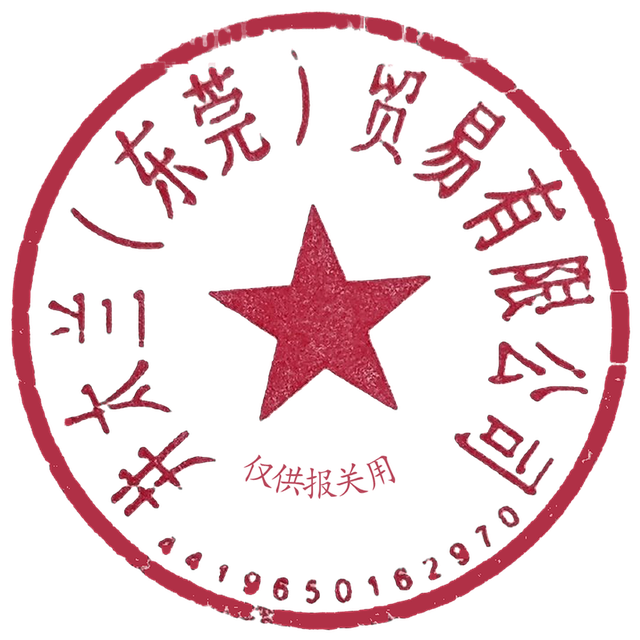
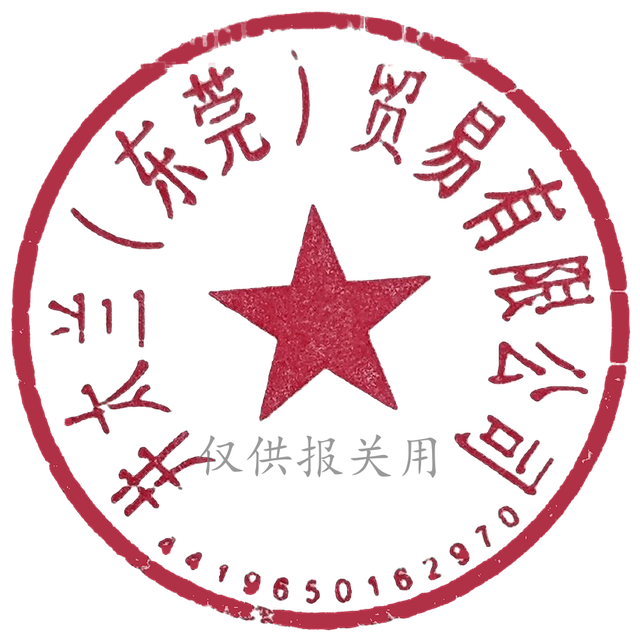
feat: Excel盖章(采购甲方行/发票装箱销售表尾右下, 25mm, oneCellAnchor)+水印改灰色直排样式C(v2)

Changed region(s): [[0.3125, 0.6875, 0.6875, 0.7812]]

diff --git a/index.html b/index.html
@@ -376,6 +376,7 @@ async function purchaseTplDownload(d,suffix){
     await stampPurchaseSheet(ws,wbTpl.getWorksheet('合同'),items,pctx);
   }
   outWb.worksheets.forEach(function(w){ applyA4PageSetup(w,'国内采购合同'); });
+  sealWorkbookAll(outWb);
   var b=await outWb.xlsx.writeBuffer();
   _dl(new Blob([b],{type:'application/vnd.openxmlformats-officedocument.spreadsheetml.sheet'}),(suffix||'国内采购合同')+'.xlsx');
 }
@@ -3781,6 +3782,7 @@ async function composeSetWorkbook(doc,prefix){
     }
     /* A4 打印设置注入(所有 sheet, 屏幕显示不受影响) */
     ej.worksheets.forEach(function(w){ applyA4PageSetup(w, w.name.replace(/^(set\d+_)/,'')); });
+    sealWorkbookAll(ej);
     return {type:'exceljs', wb:ej};
   }
   /* 采购页无模板：xlsContract 并入 SheetJS */
@@ -3851,6 +3853,7 @@ function downloadDocXlsx(docI,idx){
           try{
             const ej=new ExcelJS.Workbook(); await ej.xlsx.load(sjBuf);
             ej.worksheets.forEach(function(w){ applyA4PageSetup(w,o.type); });
+            sealWorkbookAll(ej);
             const b=await ej.xlsx.writeBuffer();
             _dl(new Blob([b],{type:'application/vnd.openxmlformats-officedocument.spreadsheetml.sheet'}),_fx+'.xlsx');
           }catch(e2){ console.warn('A4 注入失败回退 SheetJS',e2); xlsDownload(_fx,wb); }
@@ -3862,12 +3865,36 @@ function downloadDocXlsx(docI,idx){
 /* Word 导出：HTML → .doc(application/msword)，Word/WPS 直接打开；销售合同/国内采购合同用 */
 /* ===== 电子印章(v3.1)：销售合同/Invoice/装箱单 落款盖章，图源 assets/seal_*.png，转dataURI供Word导出 ===== */
 const SEAL={uris:{},on:localStorage.getItem('v3.sealOn')!=='0',wm:localStorage.getItem('v3.sealWm')!=='0'};
-function sealInit(){['clean','decl'].forEach(function(k){fetch('assets/seal_'+k+'.png?v=1').then(function(r){return r.ok?r.blob():Promise.reject();}).then(function(bl){var fr=new FileReader();fr.onload=function(){SEAL.uris[k]=fr.result;};fr.readAsDataURL(bl);}).catch(function(){});});}
+function sealInit(){['clean','decl'].forEach(function(k){fetch('assets/seal_'+k+'.png?v='+(k==='decl'?'2':'1')).then(function(r){return r.ok?r.blob():Promise.reject();}).then(function(bl){var fr=new FileReader();fr.onload=function(){SEAL.uris[k]=fr.result;};fr.readAsDataURL(bl);}).catch(function(){});});}
 function sealImgHtml(){if(!SEAL.on)return '';var u=SEAL.uris[SEAL.wm?'decl':'clean'];if(!u)return '';
   return '<img src="'+u+'" style="width:25mm;height:25mm;vertical-align:middle;opacity:.94">';}
 function sealSet(k,v){if(k==='on'){SEAL.on=v;localStorage.setItem('v3.sealOn',v?'1':'0');}else{SEAL.wm=v;localStorage.setItem('v3.sealWm',v?'1':'0');}}
 function sealBlockHtml(){if(!SEAL.on)return '';var u=SEAL.uris[SEAL.wm?'decl':'clean'];if(!u)return '';
   return '<div style="text-align:right;margin:10px 30px 0 0"><img src="'+u+'" style="width:25mm;height:25mm;opacity:.94"></div>';}
+/* Excel盖章：扫描定位——甲方（盖章）行盖A列(采购,井太兰=甲方)；否则表尾右侧。全try包裹绝不影响导出 */
+function sealWorkbookAll(wb){
+  if(!SEAL.on)return;
+  var uri=SEAL.uris[SEAL.wm?'decl':'clean'];
+  if(!uri||typeof ExcelJS==='undefined')return;
+  var imgId=null;
+  try{ imgId=wb.addImage({base64:uri,extension:'png'}); }catch(e){ console.warn('seal img fail',e); return; }
+  wb.worksheets.forEach(function(ws){
+    try{
+      var rA=null;
+      ws.eachRow(function(row,rn){
+        row.eachCell({includeEmpty:false},function(cell,cn){
+          if(rA)return;
+          var v=cell.value;
+          if(v&&v.richText)v=v.richText.map(function(t){return t.text;}).join('');
+          v=String(v==null?'':v);
+          if(v.indexOf('\u7532\u65b9\uff08\u76d6\u7ae0\uff09')>=0)rA={r:rn,c:cn}; /*甲方（盖章）*/
+        });
+      });
+      if(rA){ ws.addImage(imgId,{tl:{col:rA.c-1+0.35,row:rA.r-1-0.15},ext:{width:95,height:95},editAs:'oneCell'}); }
+      else{ var lr=(ws.actualRowCount||0); if(lr>0)ws.addImage(imgId,{tl:{col:6,row:lr+0.4},ext:{width:95,height:95},editAs:'oneCell'}); }
+    }catch(e){ console.warn('seal sheet fail',ws.name,e); }
+  });
+}
 function docFromHtml(html,name){
   const shell='<html xmlns:o="urn:schemas-microsoft-com:office:office" xmlns:w="urn:schemas-microsoft-com:office:word" xmlns="http://www.w3.org/TR/REC-html40">'
     +'<head><meta charset="utf-8"><title>'+name+'</title>'
